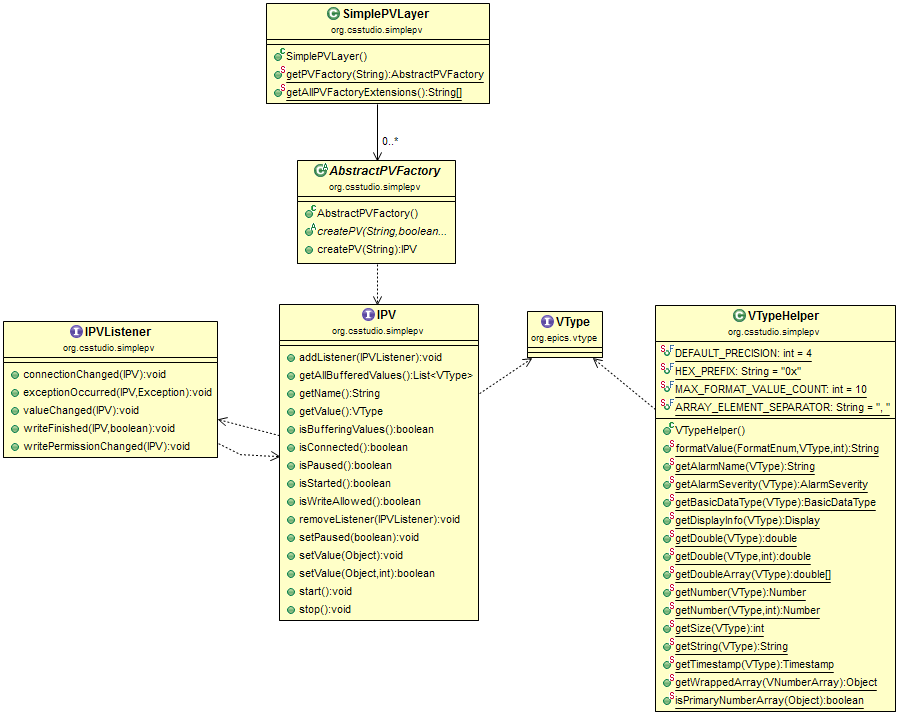
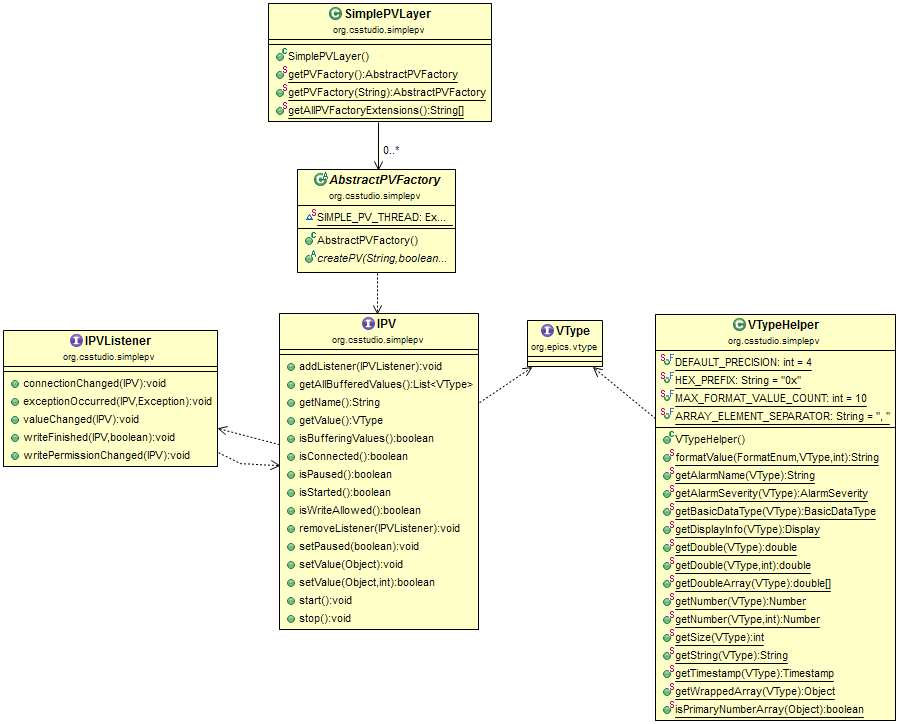
simplepv: add default pv factory preference.

Changed region(s): [[0.0, 0.0, 0.5606, 0.8923], [0.7164, 0.4, 0.9967, 0.9846], [0.5606, 0.4308, 0.6852, 0.5231]]

diff --git a/core/plugins/org.csstudio.simplepv/src/org/csstudio/simplepv/SimplePVLayer.java b/core/plugins/org.csstudio.simplepv/src/org/csstudio/simplepv/SimplePVLayer.java
@@ -25,11 +25,30 @@ public class SimplePVLayer {
 	private static final String EXTPOINT_PVFACTORY = "org.csstudio.simplepv.pvfactory"; //$NON-NLS-1$
 	
 	private static Map<String, AbstractPVFactory> factoryMap = new HashMap<String, AbstractPVFactory>(4);
+
+	/**If there is only one {@link AbstractPVFactory} implementation, return it.
+	 * If there are multiple implementations, return the default PV factory which 
+	 * is configured in the preference. 
+	 * @return Default PV Factory or null if not exist.
+	 * @throws CoreException on loading extensions error. 
+	 */	
+	public static AbstractPVFactory getPVFactory() throws CoreException{
+		String[] allPVFactoryExtensions = getAllPVFactoryExtensions();
+		if(allPVFactoryExtensions.length==1)
+			return getPVFactory(allPVFactoryExtensions[0]);
+		
+		String defaultPVFactoryID = PreferenceHelper.getDefaultPVFactoryID();
+		if(defaultPVFactoryID == null)
+			return null;
+		
+		return getPVFactory(defaultPVFactoryID);		
+	}
+
 	
 	/**Get a PV Factory from its ID.
 	 * @param pvFactoryId ID of the PV Factory extension.
-	 * @return the PV Factory.
-	 * @throws CoreException
+	 * @return the PV Factory. null if not exist.
+	 * @throws CoreException on loading extensions error.
 	 */
 	public static AbstractPVFactory getPVFactory(String pvFactoryId) throws CoreException{
 		if(!factoryMap.containsKey(pvFactoryId)){

diff --git a/core/plugins/org.csstudio.simplepv/src/org/csstudio/simplepv/PreferenceHelper.java b/core/plugins/org.csstudio.simplepv/src/org/csstudio/simplepv/PreferenceHelper.java
@@ -1,0 +1,35 @@
+/*******************************************************************************
+ * Copyright (c) 2013 Oak Ridge National Laboratory.
+ * All rights reserved. This program and the accompanying materials
+ * are made available under the terms of the Eclipse Public License v1.0
+ * which accompanies this distribution, and is available at
+ * http://www.eclipse.org/legal/epl-v10.html
+ ******************************************************************************/
+package org.csstudio.simplepv;
+
+import org.eclipse.core.runtime.Platform;
+import org.eclipse.core.runtime.preferences.IPreferencesService;
+
+/**The preference helper for simplepv.
+ * @author Xihui Chen
+ *
+ */
+public class PreferenceHelper {
+	
+	final public static String DEFAULT_PVFACTORY="default_pvfactory"; //$NON-NLS-1$
+	
+	
+	 /** @param preferenceName Preference identifier
+     *  @return String from preference system, or <code>null</code>
+     */
+    private static String getString(final String preferenceName)
+    {
+        final IPreferencesService service = Platform.getPreferencesService();
+        return service.getString(SimplePVPlugin.PLUGIN_ID, preferenceName, null, null);
+    }
+    
+    public static String getDefaultPVFactoryID(){
+    	return getString(DEFAULT_PVFACTORY);
+    }
+
+}

diff --git a/core/plugins/org.csstudio.simplepv/src/org/csstudio/simplepv/SimplePVPlugin.java b/core/plugins/org.csstudio.simplepv/src/org/csstudio/simplepv/SimplePVPlugin.java
@@ -15,6 +15,8 @@ import org.osgi.framework.BundleContext;
  *
  */
 public class SimplePVPlugin implements BundleActivator {
+	
+	public static final String PLUGIN_ID = "org.csstudio.simplepv";
 
 	public void start(BundleContext context) throws Exception {
 
